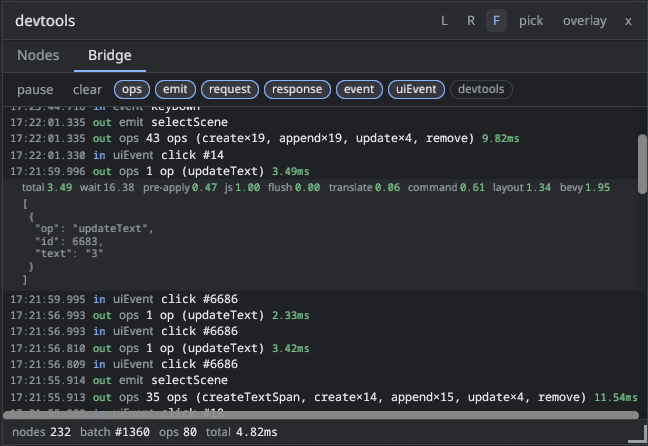
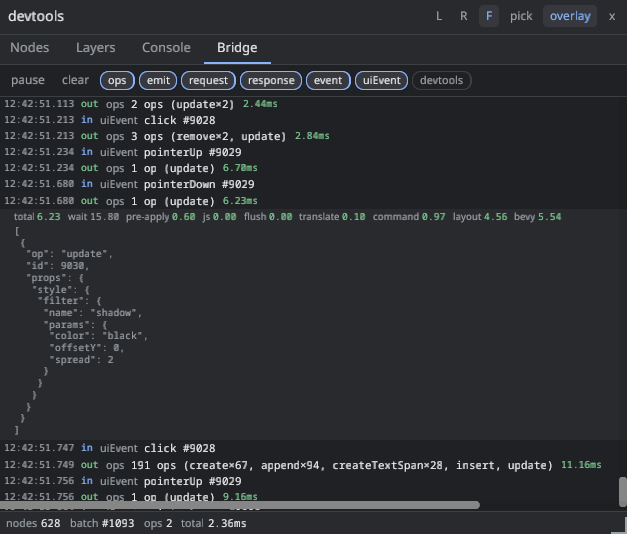
feat(devtools) showing react component name alongside element in nodes tab

diff --git a/js/src/devtools/TreeView.tsx b/js/src/devtools/TreeView.tsx
@@ -1,6 +1,8 @@
 // The Nodes tree: an explorer over the op mirror. Rows expand/
 // collapse, click selects (driving the inspector + the on-screen highlight),
-// and hovering a row highlights its node in the running UI.
+// and hovering a row highlights its node in the running UI. Each row leads with
+// the React component that emitted the node, where the dev build could
+// attribute it (`owners.ts`).
 
 import { useEffect, useState, useSyncExternalStore } from "react";
 import { sendHighlight } from "./api";
@@ -141,6 +143,7 @@ function TreeRows({
   overrides,
   baseline,
   toggle,
+  parentOwner,
 }: {
   id: number;
   depth: number;
@@ -150,6 +153,8 @@ function TreeRows({
   overrides: ReadonlyMap<number, boolean>;
   baseline: Baseline;
   toggle: (id: number, expand: boolean) => void;
+  /** The owner of the row above, for the boundary rule (see `Row`). */
+  parentOwner?: string;
 }) {
   const node = mirror.get(id);
   if (!node) return null;
@@ -170,6 +175,7 @@ function TreeRows({
         caret={hasChildren ? (expanded ? "-" : "+") : " "}
         hint={foreignRoot ? "detached" : undefined}
         selected={selected === id}
+        parentOwner={parentOwner}
         onCaret={hasChildren ? () => toggle(id, !expanded) : undefined}
         onSelect={() => onSelect(id)}
       />
@@ -185,6 +191,7 @@ function TreeRows({
             overrides={overrides}
             baseline={baseline}
             toggle={toggle}
+            parentOwner={node.owner}
           />
         ))}
     </node>
@@ -199,6 +206,7 @@ function Row({
   selected,
   onCaret,
   onSelect,
+  parentOwner,
 }: {
   node: MirrorNode;
   depth: number;
@@ -207,7 +215,14 @@ function Row({
   selected: boolean;
   onCaret?: () => void;
   onSelect: () => void;
+  parentOwner?: string;
 }) {
+  // Attribution BOUNDARIES only: a component's whole subtree shares one owner,
+  // so naming it on every row would drown the tree — the name instead marks
+  // where a component's output begins. "Unattributed" is a value like any
+  // other, so a node React could not attribute under one it could shows `<?>`
+  // once and its descendants stay blank.
+  const showOwner = node.owner !== parentOwner;
   return (
     <node
       style={{
@@ -229,6 +244,19 @@ function Row({
       >
         <text style={{ color: theme.textDim, fontSize: 10 }}>{caret}</text>
       </button>
+      {showOwner && (
+        <text
+          style={{
+            color: theme.component,
+            fontSize: 11,
+            fontFamily: theme.mono,
+            margin: { right: 6 },
+            lineBreak: "noWrap",
+          }}
+        >
+          {node.owner ? `<${node.owner}>` : "<?>"}
+        </text>
+      )}
       {/* `noWrap`: long labels overflow into the ScrollArea's horizontal
           scroll range instead of wrapping the row. */}
       <text

diff --git a/js/src/devtools/mirror.ts b/js/src/devtools/mirror.ts
@@ -17,6 +17,7 @@
 // Refresh; a cold reload's `reset` op clears it along with the Bevy tree.
 
 import type { DecodeWarning, Op } from "../bridge";
+import { clearOwners, takeOwner } from "./owners";
 import { matchWarning } from "./warnings";
 
 /** Event-like fields that act once and are never part of retained state —
@@ -45,6 +46,9 @@ export interface MirrorNode {
   parent: number | null;
   /** Created by the devtools panel's own container (excluded from app views). */
   devtools: boolean;
+  /** The React component whose JSX emitted this node, when the dev build could
+   *  attribute it (see `owners.ts`); absent when it could not. */
+  owner?: string;
   /** Invalid-value flags by inspector row key (`style:width` / `prop:tint`) →
    *  the Rust warn message. Set from Rust-reported warnings (decode-time via
    *  the flush tap, apply-time via `devtools.warning`); an entry clears when
@@ -59,7 +63,7 @@ const subscribers = new Set<() => void>();
 let notifyQueued = false;
 
 function makeNode(id: number, kind: string, devtools: boolean): MirrorNode {
-  return {
+  const node: MirrorNode = {
     id,
     kind,
     props: {},
@@ -68,6 +72,11 @@ function makeNode(id: number, kind: string, devtools: boolean): MirrorNode {
     parent: null,
     devtools,
   };
+  // Recorded by the renderer when the node was created — this commit, since
+  // every commit flushes. Taking it here ties the name's lifetime to the node.
+  const owner = takeOwner(id);
+  if (owner) node.owner = owner;
+  return node;
 }
 
 function ensureRoot(): MirrorNode {
@@ -132,6 +141,7 @@ function applyOp(op: Op, devtools: boolean): void {
   switch (op.op) {
     case "reset": {
       nodes.clear();
+      clearOwners();
       ensureRoot();
       break;
     }

diff --git a/js/src/renderer.ts b/js/src/renderer.ts
@@ -24,7 +24,7 @@ import {
   serializeProps,
   SHAPE_KINDS,
 } from "./bridge";
-import { installDevtools } from "./devtools";
+import { installDevtools, noteOwner } from "./devtools";
 import { setupRefreshRuntime } from "./hmr";
 
 // `process.env.NODE_ENV` is replaced at build time by esbuild's `define`; the
@@ -159,8 +159,13 @@ const hostConfig: Reconciler.HostConfig<
     props: Record<string, unknown>,
     _root: Container,
     hostContext: HostContext,
+    // This element's fiber. Only the devtools read it — for the component that
+    // emitted the node (`devtools/owners.ts`); nothing about it crosses the
+    // bridge, and the production build stubs the call out.
+    internalHandle: unknown,
   ): Instance {
     const id = allocId();
+    if (DEV) noteOwner(id, internalHandle);
     // A nested `<text>` is a styled span; a top-level one is a text block root.
     const kind = type === "text" && hostContext.inText ? "textSpan" : type;
     // An `<anchor>`'s / SVG shape's flat props cross as one folded object.
@@ -193,8 +198,10 @@ const hostConfig: Reconciler.HostConfig<
     text: string,
     _root: Container,
     hostContext: HostContext,
+    internalHandle: unknown,
   ): TextInstance {
     const id = allocId();
+    if (DEV) noteOwner(id, internalHandle);
     // A bare string inside a `<text>` is an inheriting run; elsewhere it's a
     // standalone (default-styled) text node.
     push(

diff --git a/js/src/devtools/index.ts b/js/src/devtools/index.ts
@@ -15,6 +15,11 @@ import { DevtoolsHost } from "./DevtoolsHost";
 import { mirror } from "./mirror";
 import { recorder } from "./recorder";
 
+// The renderer's other devtools entry point: per-node component attribution
+// (see `owners.ts`). Re-exported here so the renderer keeps ONE devtools
+// import — the module production builds replace with a stub.
+export { noteOwner } from "./owners";
+
 let installed = false;
 
 /** Mount the devtools panel into its own React container (injected by the

diff --git a/js/src/devtools/theme.ts b/js/src/devtools/theme.ts
@@ -21,6 +21,8 @@ export const theme = {
   danger: "#f28b82",
   /** Warnings (invalid property values Bevy fell back on). */
   warn: "#fdd663",
+  /** Component attribution in the tree (the component that emitted a node). */
+  component: "#c58af9",
   /** Success / ok badges. */
   ok: "#81c995",
   /** Monospace family for node kinds, values, and the log. */
